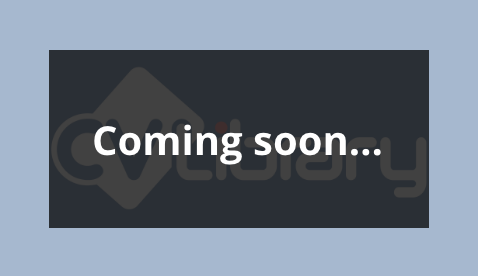
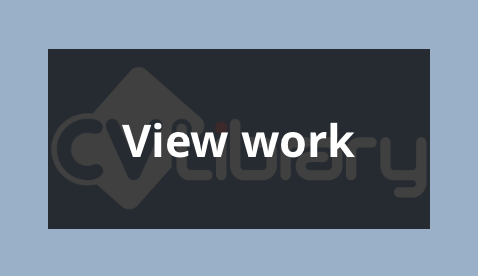
Projects update.
Update to CVL project

Changed region(s): [[0.1757, 0.4317, 0.7908, 0.6043], [0.0879, 0.8058, 0.9079, 0.8345], [0.0879, 0.1727, 0.9079, 0.2014]]

diff --git a/index.html b/index.html
@@ -48,7 +48,7 @@
 					<h1>Porfolio</h1>
 					<div class="project-case">
 						<div class="project">
-							<img src="images/cv-library.png" onmouseover="this.src='images/cv-library-rollover.png'" onmouseout="this.src='images/cv-library.png'" class="rollover" width="200px;" height="115px;">
+							<a href="https://www.behance.net/gallery/114773265/CV-Library-Junior-Web-Designer" target="_blank"><img src="images/cv-library.png" onmouseover="this.src='images/cv-library-rollover.png'" onmouseout="this.src='images/cv-library.png'" class="rollover" width="200px;" height="115px;"></a>
 						</div>
 						<div class="project">
 							<a href="https://www.behance.net/gallery/106569469/Duo-Delights-Bakery" target="_blank"><img src="images/duodelights.png" onmouseover="this.src='images/duodelights-rollover.png'" onmouseout="this.src='images/duodelights.png'" width="200px;" height="115px;"></a>
